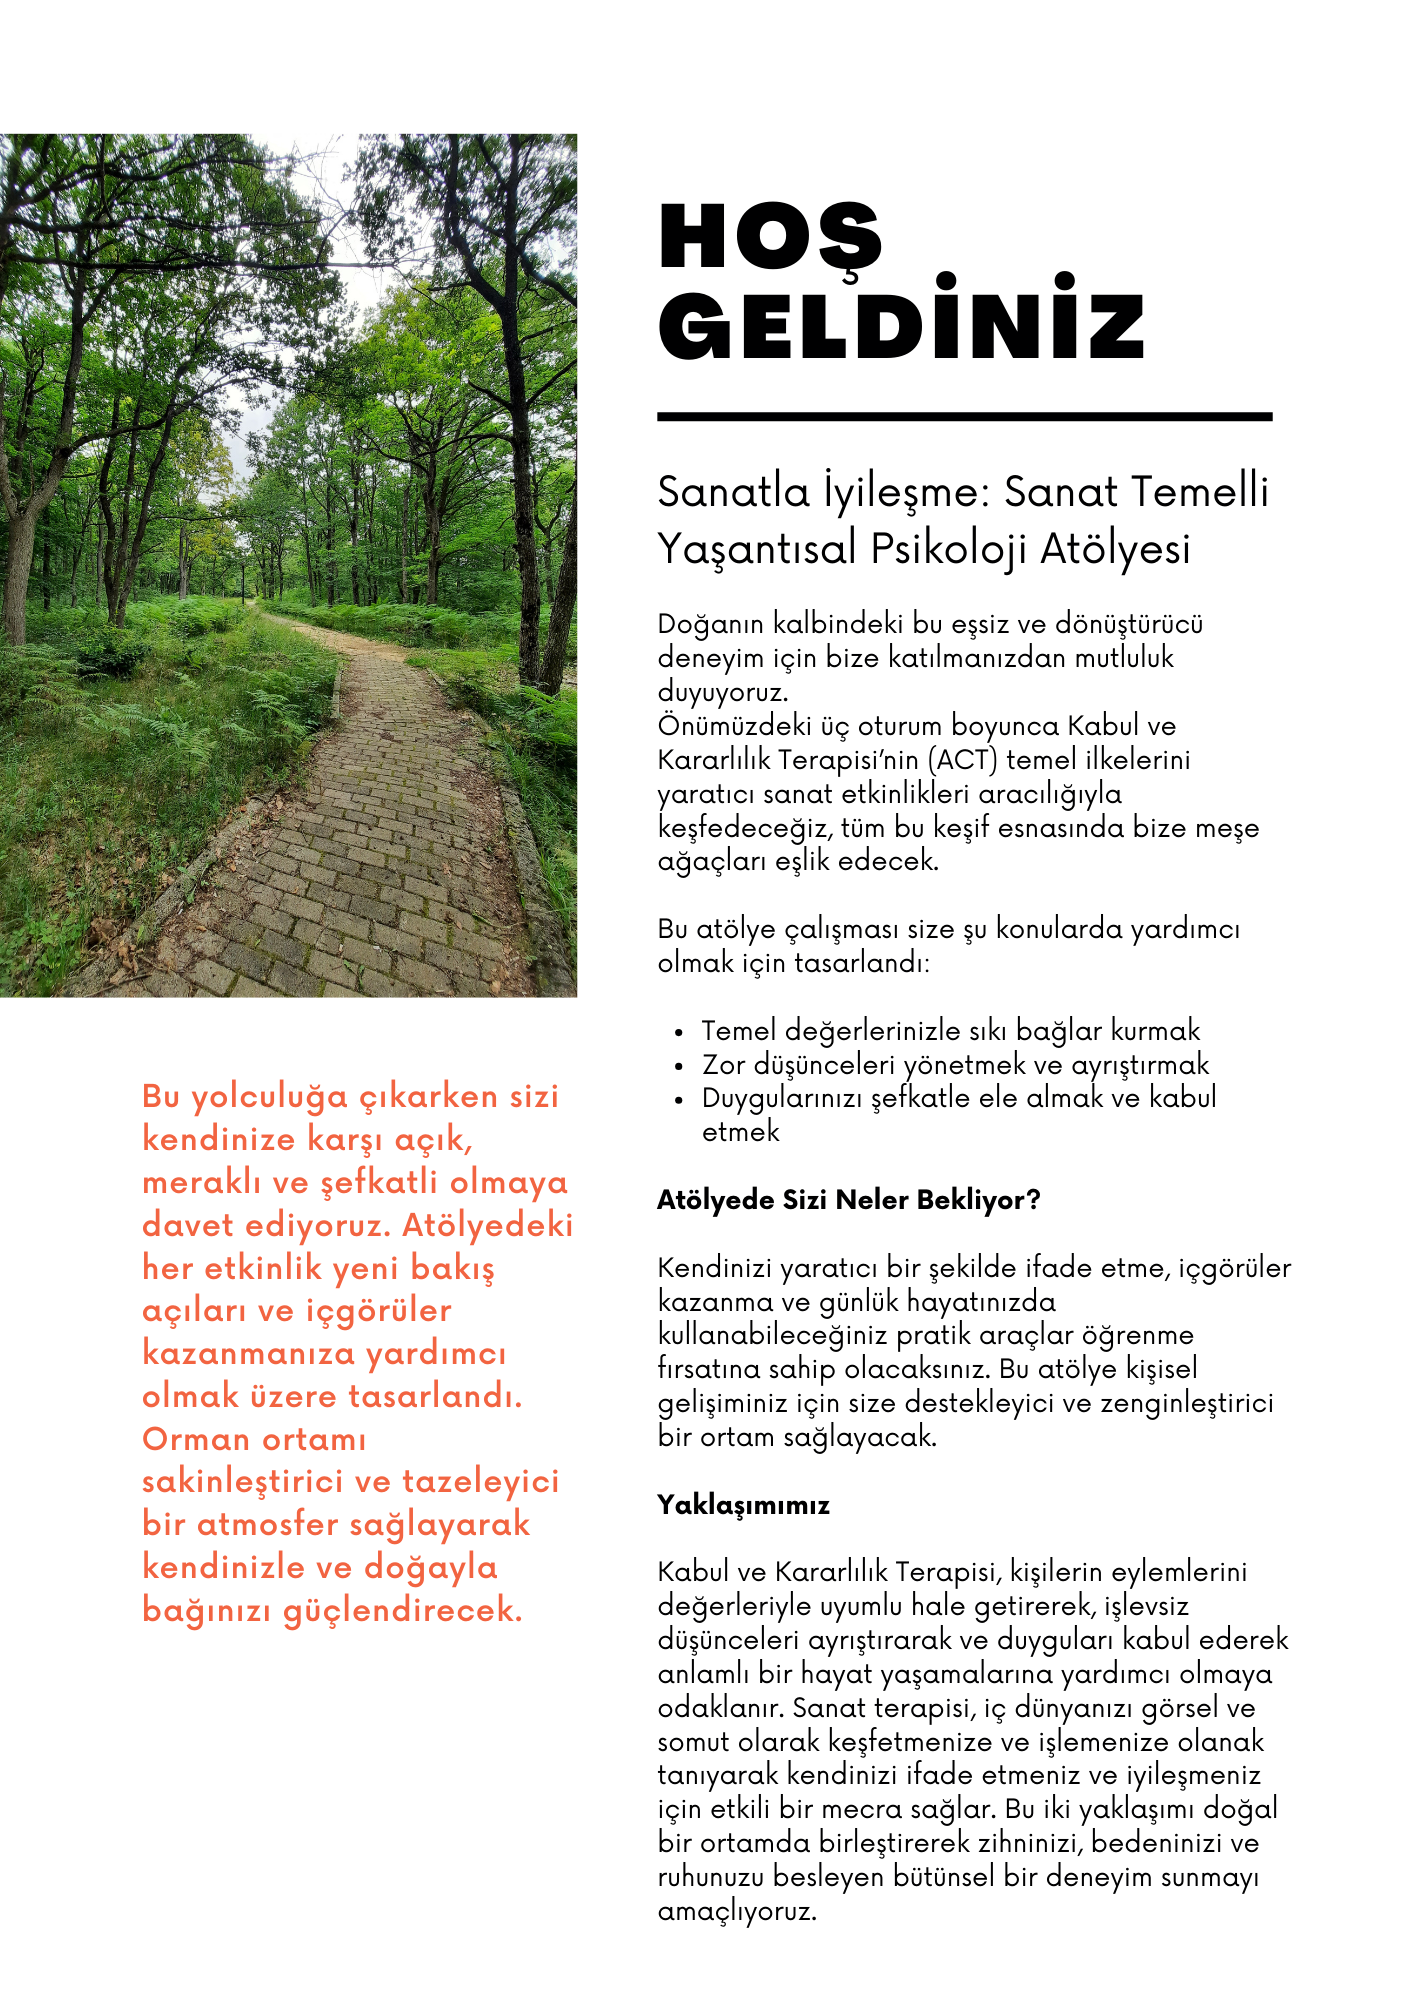
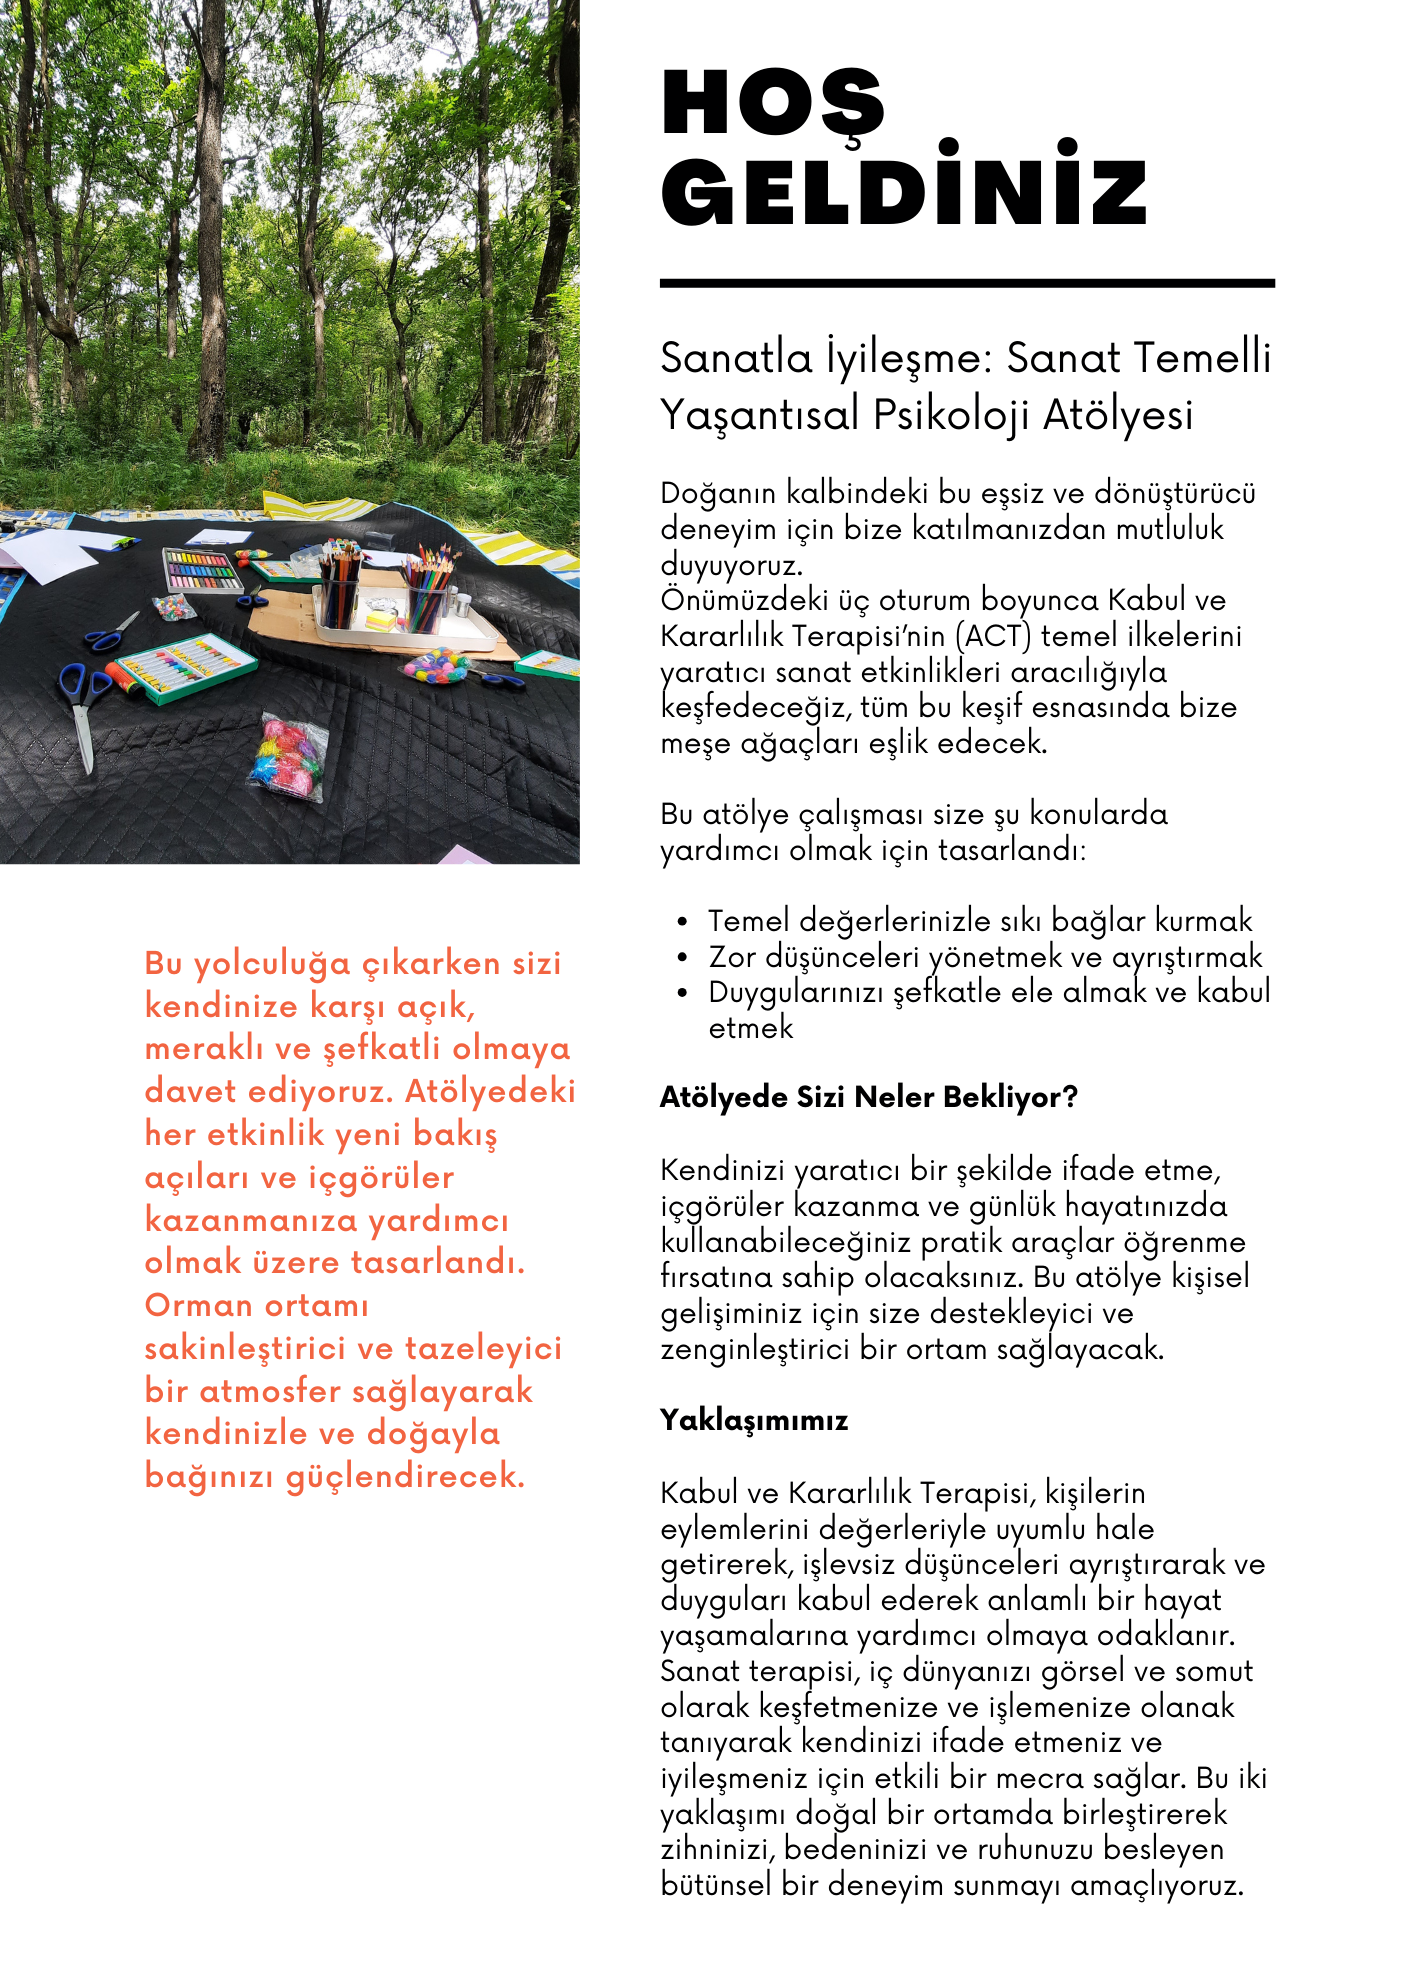
new workshop details are added

diff --git a/src/routes/sanat/+page.svelte b/src/routes/sanat/+page.svelte
@@ -7,6 +7,7 @@
   import img5 from "$lib/assets/sanat/5.png";
   import img6 from "$lib/assets/sanat/6.png";
   import img7 from "$lib/assets/sanat/7.png";
+  import img8 from "$lib/assets/sanat/8.png";
 
   let dialog: null | HTMLDialogElement = null; // Reference to the dialog tag
   let container: null | HTMLElement = null;
@@ -50,6 +51,9 @@
       destroy: () => observer.disconnect(),
     };
   }
+
+  const formLink =
+    "https://docs.google.com/forms/d/e/1FAIpQLSdG0lKWGU2REmUKeqkQtZADhYuxGGHADnbGsN78xHUiuIBtug/viewform?usp=sf_link";
 </script>
 
 <div class="main-container">
@@ -59,10 +63,11 @@
   <img src={img4} alt="atolye detaylari 4" />
   <img src={img5} alt="atolye detaylari 5" />
   <img src={img6} alt="atolye detaylari 6" />
-  <img src={img7} alt="atolye detaylari 7" use:timer />
+  <img src={img7} alt="atolye detaylari 7" />
+  <img src={img8} alt="atolye detaylari 8" use:timer />
 
   <a
-    href="https://docs.google.com/forms/d/e/1FAIpQLSf6fE2pQWgegM0szfjghnJmUBbXI924bR-rP-v4vMVTENnOBw/viewform?usp=sf_link"
+    href={formLink}
     class="apply-button floating-button small-in-mobile"
     target="_blank">Kaydol</a
   >
@@ -81,10 +86,8 @@
     >
       x
     </div>
-    <a
-      href="https://docs.google.com/forms/d/e/1FAIpQLSf6fE2pQWgegM0szfjghnJmUBbXI924bR-rP-v4vMVTENnOBw/viewform?usp=sf_link"
-      target="_blank"
-      class="apply-button dialog-button">Kaydol!</a
+    <a href={formLink} target="_blank" class="apply-button dialog-button"
+      >Kaydol!</a
     >
   </dialog>
 </div>

diff --git a/README.md b/README.md
@@ -2,10 +2,10 @@
 
 I am making this for **my wife**. She is the **best psychologist** I ever know.
 
-Technically, the site uses **SvelteKit** for both front end back end. Deployment is done via **cyclic**, and will be using **DynamoDB** for upcoming blogposts.
+The site uses **SvelteKit** for both front end back end. Deployment is done via **cyclic**, and uses Postgres for blogposts.
 
 ### Sources
-- [Cyclic](https://app.cyclic.sh/#/join/emrergin)(referral link)
+
 - [SvelteKit](https://kit.svelte.dev/)
 - A lot of code refactored from: https://github.com/sveltejs/realworld
 - https://miracleio.me/snippets/use-gmail-with-nodemailer/#setting-up-nodemailer-in-a-node-project
@@ -16,8 +16,9 @@ Technically, the site uses **SvelteKit** for both front end back end. Deployment
 - https://dev.to/dan_1s/visibility-detection-using-svelte-2e96
 
 ### Icons
+
 - Instagram:
-    - https://icon-sets.iconify.design/mdi/instagram/
+  - https://icon-sets.iconify.design/mdi/instagram/
 - Youtube:
-    - https://icon-sets.iconify.design/mdi/youtube/
+  - https://icon-sets.iconify.design/mdi/youtube/
 - Good for browsing Iconify: https://icones.js.org
